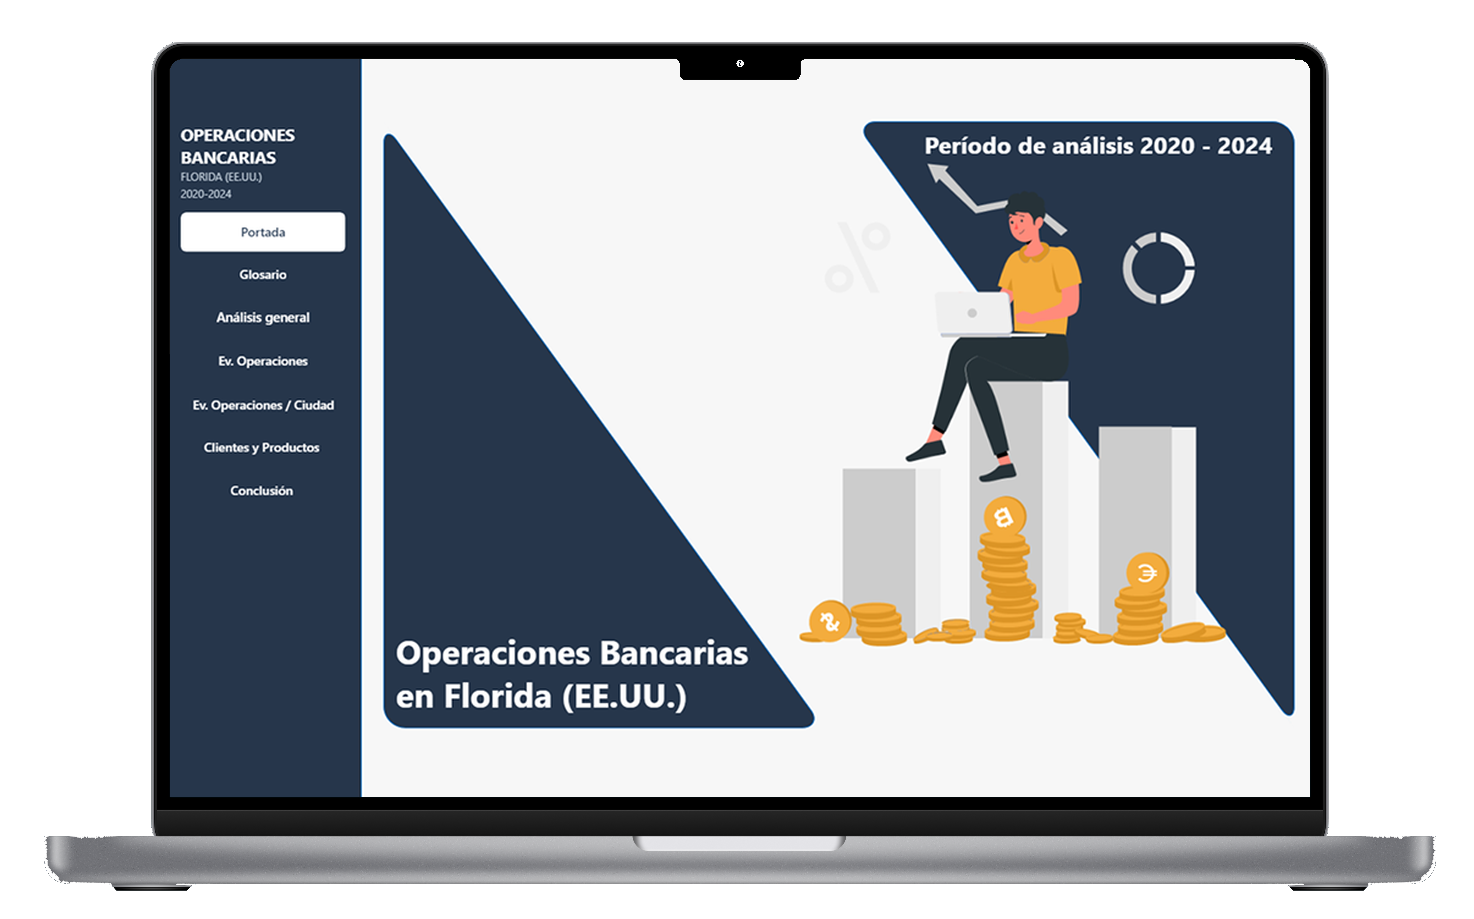
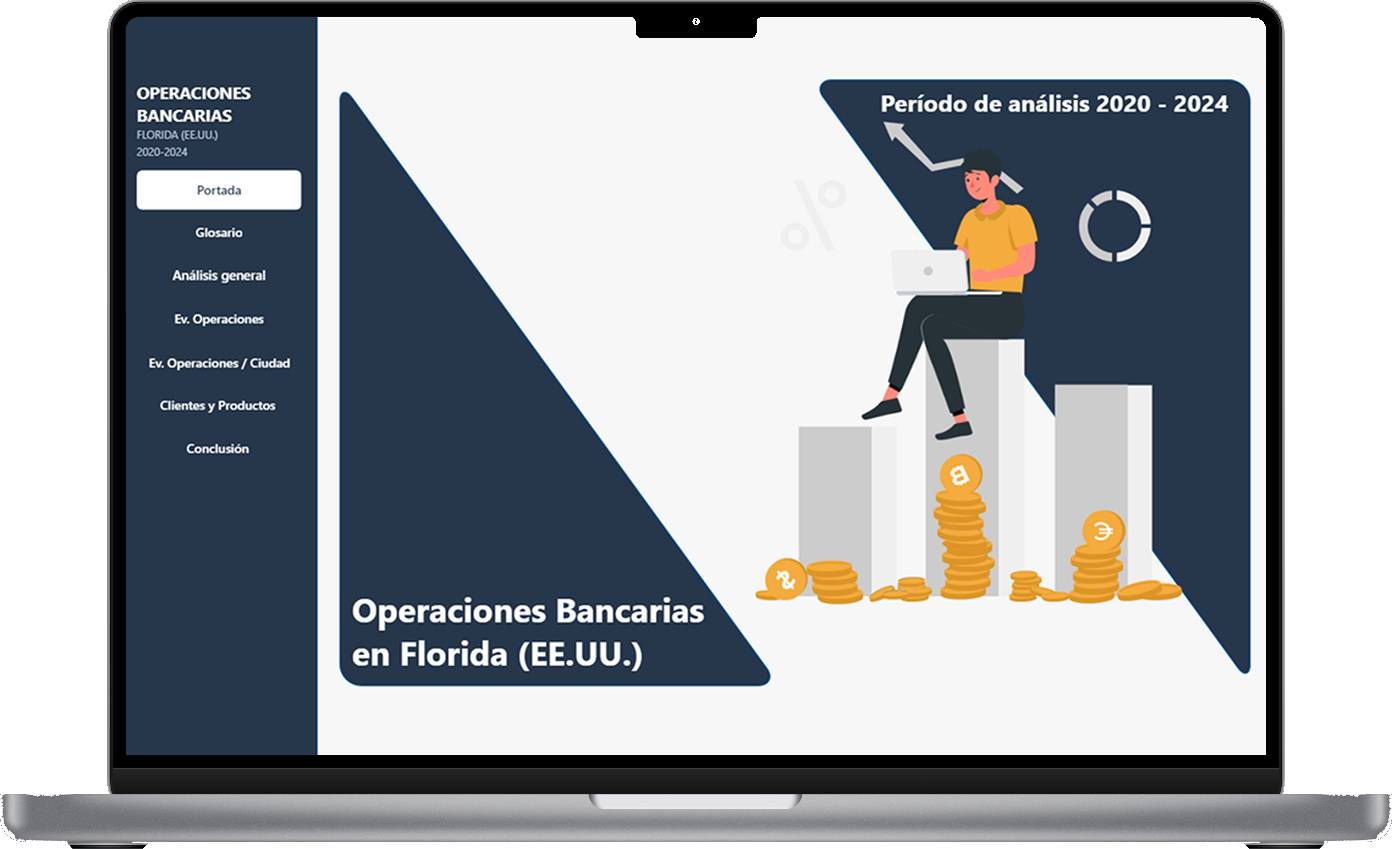
style(proyecto-08): borderless hero mockup, centered meta columns, client label
- portada.png trimmed to the laptop's bounds (1392x849, transparent, pixel-exact)
  and shown without the surrounding card; tighter gap to the metadata
- Hero metadata as three centered columns (role/period, client/tools, responsibilities)
- Client: "Confidencial" / "Confidential"

Claude-Session: https://claude.ai/code/session_01EqdGRrr51cmWNpVwWkDepz

diff --git a/src/components/projects/ProjectDetail.tsx b/src/components/projects/ProjectDetail.tsx
@@ -605,12 +605,19 @@ function EditorialHero({ loc }: { loc: ProjectLocale }) {
   const t = useTranslations('projects')
   const responsibilitiesId = useId()
   const image = loc.heroImage
-  const meta = [
-    loc.role ? { label: t('metaRole'), value: loc.role } : null,
-    loc.client ? { label: t('metaClient'), value: loc.client } : null,
-    loc.timeline ? { label: t('metaTimeline'), value: loc.timeline } : null,
-    loc.tools && loc.tools.length > 0 ? { label: t('metaTools'), value: loc.tools.join(' · ') } : null,
-  ].filter((m): m is { label: string; value: string } => m !== null)
+  type Meta = { label: string; value: string }
+  const isMeta = (m: Meta | null): m is Meta => m !== null
+  // Two meta columns (role + period, client + tools) plus responsibilities = three centered columns.
+  const metaColumns = [
+    [
+      loc.role ? { label: t('metaRole'), value: loc.role } : null,
+      loc.timeline ? { label: t('metaTimeline'), value: loc.timeline } : null,
+    ].filter(isMeta),
+    [
+      loc.client ? { label: t('metaClient'), value: loc.client } : null,
+      loc.tools && loc.tools.length > 0 ? { label: t('metaTools'), value: loc.tools.join(' · ') } : null,
+    ].filter(isMeta),
+  ].filter((col) => col.length > 0)
 
   return (
     <header className="max-w-6xl mx-auto px-6 pt-32 md:pt-40 pb-20 md:pb-28">
@@ -646,7 +653,7 @@ function EditorialHero({ loc }: { loc: ProjectLocale }) {
           initial={{ opacity: 0, y: 20 }}
           animate={{ opacity: 1, y: 0 }}
           transition={{ duration: 0.7, delay: 0.2, ease }}
-          className="mt-12 md:mt-16 rounded-2xl p-4 md:p-8 lg:p-10 dark:bg-[#1e1e1e] bg-white border dark:border-mid-gray/30 border-[#e8e8e8]"
+          className="mt-10 md:mt-14"
         >
           <EditorialImage image={image} priority sizes="(max-width: 1200px) 100vw, 1100px" />
         </motion.figure>
@@ -656,23 +663,25 @@ function EditorialHero({ loc }: { loc: ProjectLocale }) {
         initial={{ opacity: 0, y: 12 }}
         animate={{ opacity: 1, y: 0 }}
         transition={{ duration: 0.5, delay: 0.25 }}
-        className="mt-12 md:mt-16 pt-10 border-t dark:border-mid-gray/30 border-[#e0e0e0] grid lg:grid-cols-12 gap-10 lg:gap-16 items-start"
+        className="mt-8 md:mt-10 pt-10 border-t dark:border-mid-gray/30 border-[#e0e0e0] grid gap-10 sm:grid-cols-2 sm:gap-x-8 lg:grid-cols-[minmax(0,13rem)_minmax(0,15rem)_minmax(0,30rem)] lg:justify-center lg:gap-x-16 items-start"
       >
-        <dl className="lg:col-span-5 grid grid-cols-1 sm:grid-cols-2 gap-x-8 gap-y-7">
-          {meta.map((m) => (
-            <div key={m.label}>
-              <dt className="text-[10px] tracking-[2px] uppercase mb-2 dark:text-off-white/60 text-mid-gray">
-                {m.label}
-              </dt>
-              <dd className="text-[15px] font-light leading-[1.6] dark:text-off-white/80 text-dark">
-                {m.value}
-              </dd>
-            </div>
-          ))}
-        </dl>
+        {metaColumns.map((col, ci) => (
+          <dl key={ci} className="grid gap-y-7">
+            {col.map((m) => (
+              <div key={m.label}>
+                <dt className="text-[10px] tracking-[2px] uppercase mb-2 dark:text-off-white/60 text-mid-gray">
+                  {m.label}
+                </dt>
+                <dd className="text-[15px] font-light leading-[1.6] dark:text-off-white/80 text-dark">
+                  {m.value}
+                </dd>
+              </div>
+            ))}
+          </dl>
+        ))}
 
         {loc.responsibilities && loc.responsibilities.length > 0 && (
-          <div className="lg:col-span-7">
+          <div className="sm:col-span-2 lg:col-span-1">
             <p id={responsibilitiesId} className="text-[10px] tracking-[2px] uppercase mb-4 dark:text-off-white/60 text-mid-gray">
               {t('metaResponsibilities')}
             </p>
